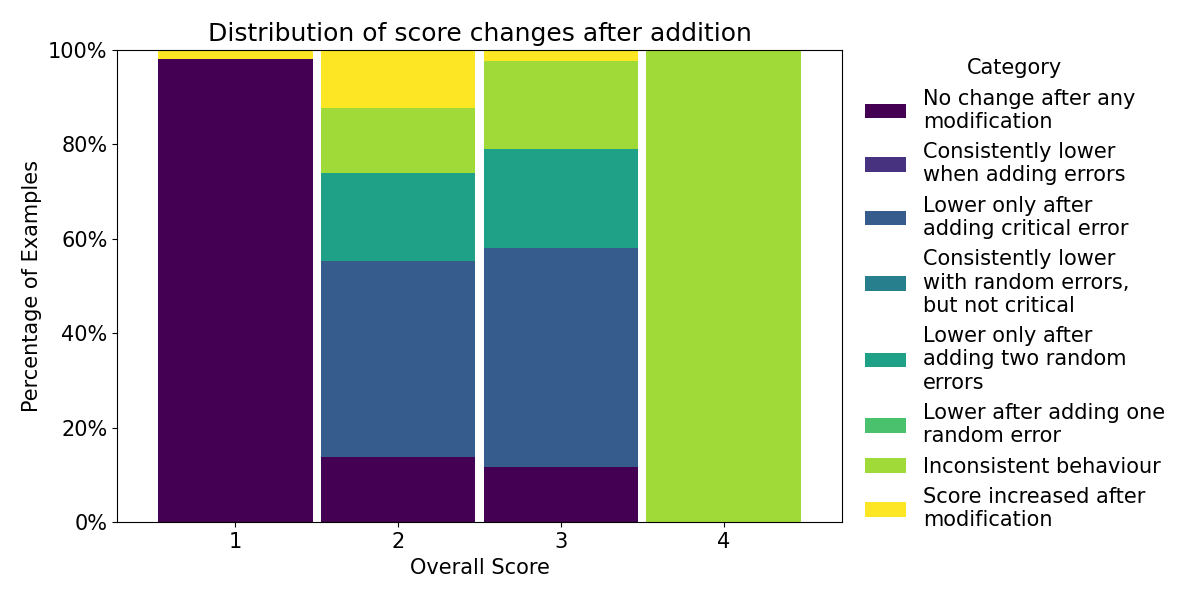
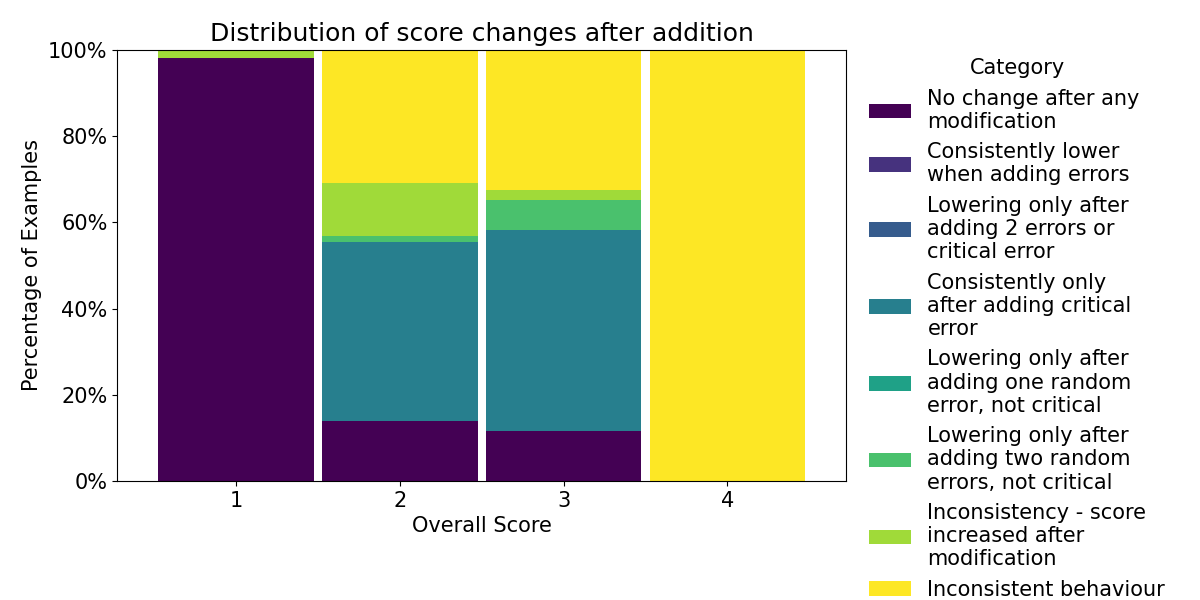
(WIP) Add error addition plots

diff --git a/src/calculate_plots3.py b/src/calculate_plots3.py
@@ -19,19 +19,18 @@ def classify_row(row, mods):
     add_crit = row[f'score_num_{mods[2]}']
 
 
+    if add_crit < add_rand2 < add_rand1 < main:
+        return 'lower_cons'
+    elif add_crit < add_rand2 < add_rand1 == main:
+        return 'lower_after_rand2'
+    elif add_crit < add_rand2 == add_rand1 == main:
+        return 'lower_after_crit'
+    elif  add_rand2 < add_rand1 < main == add_crit:
+        return 'lower_only_rand1'
+    elif  add_rand2 < add_rand1 == main == add_crit:
+        return 'lower_only_rand2'
     if add_crit == add_rand2 == add_rand1 == main:
         return 'equal_all'
-    elif add_crit < add_rand2 < add_rand1 < main:
-        return 'lower_cons'
-    elif add_crit < add_rand2 == add_rand1 == main:
-        return 'lower_crit_only'
-    elif add_crit == add_rand2 < add_rand1 < main:
-        return 'lower_cons_rand_only'
-    elif add_crit == add_rand2 < add_rand1 == main:
-        return 'lower_rand2_only'
-    elif add_crit == add_rand2 == add_rand1 < main:
-        return 'lower_rand1_only'
-    
     elif np.any(np.array([add_crit, add_rand1, add_rand2]) > main):
         return 'incr'
 
@@ -243,12 +242,12 @@ grouped = (
 nice_labels = {
     'equal_all': 'No change after any modification',
     'lower_cons': 'Consistently lower when adding errors',
-    'lower_crit_only': 'Lower only after adding critical error',
-    'lower_cons_rand': 'Consistently lower with random errors, but not critical',
-    'lower_rand2_only': 'Lower only after adding two random errors',
-    'lower_rand1_only': 'Lower after adding one random error',
+    'lower_after_rand2': 'Lowering only after adding 2 errors or critical error',
+    'lower_after_crit': 'Consistently only after adding critical error',
+    'lower_only_rand1': 'Lowering only after adding one random error, not critical',
+    'lower_only_rand2': 'Lowering only after adding two random errors, not critical',
+    'incr': 'Inconsistency - score increased after modification',
     'rest': 'Inconsistent behaviour',
-    'incr': 'Score increased after modification',
 }
 
 all_categories = nice_labels.keys()
